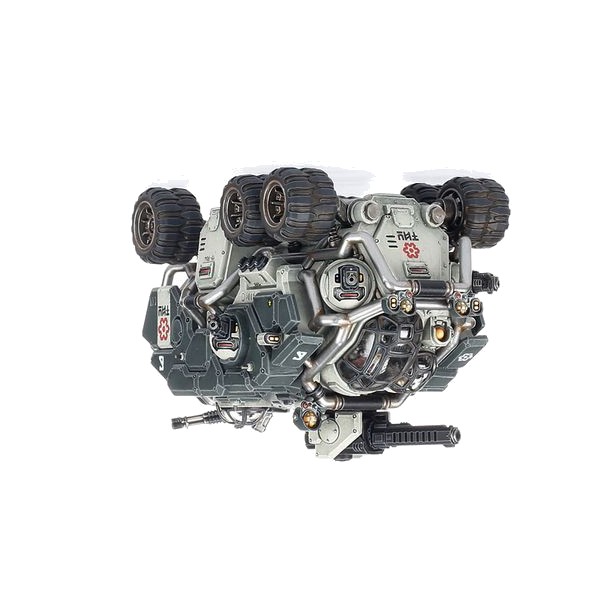
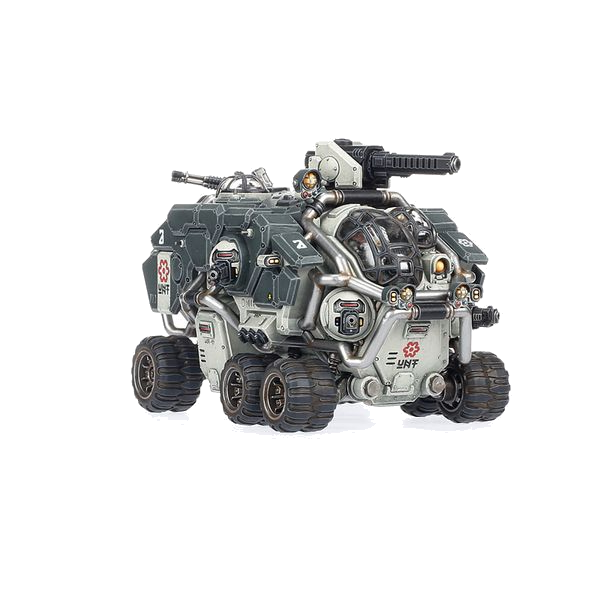
rover_e: mirror horizontally instead of 180 rotation (avoids upside-down look)

Changed region(s): [[0.21, 0.21, 0.87, 0.78]]

diff --git a/README.md b/README.md
@@ -5,7 +5,7 @@ The base art faces WEST as drawn, so:
 
 - `rover_w.png` = original orientation (faces west)
 - `rover_n.png` = rotated 90 CW (faces north/up)
-- `rover_e.png` = rotated 180 (faces east/right)
+- `rover_e.png` = horizontal mirror of base (faces east/right, not upside down)
 - `rover_s.png` = rotated 90 CCW (faces south/down)
 
 Generated with PIL from `Hecaton.png`. Use with Graphics1300 `Sprite` stretched to the cell size.
